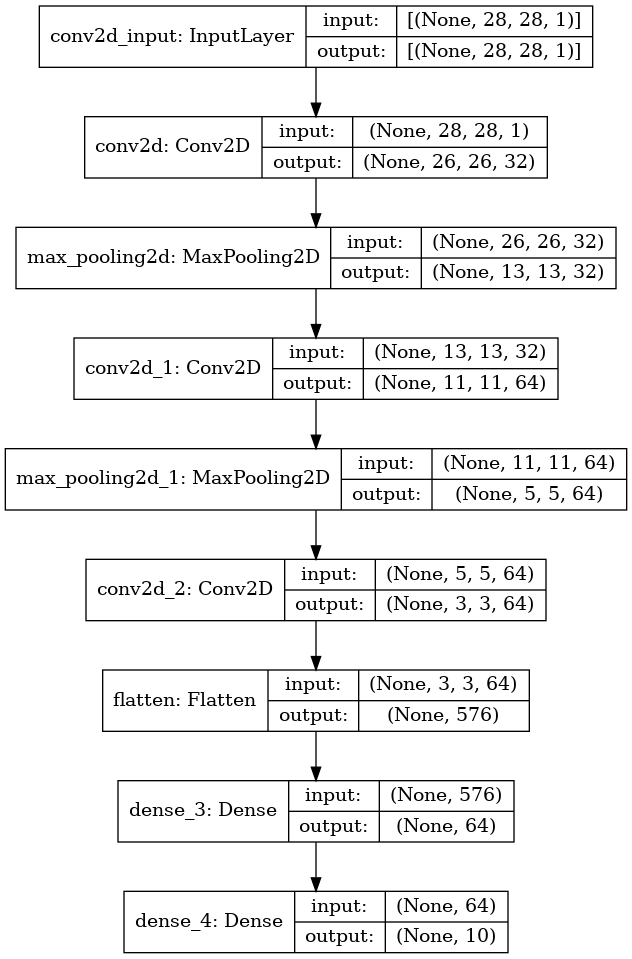
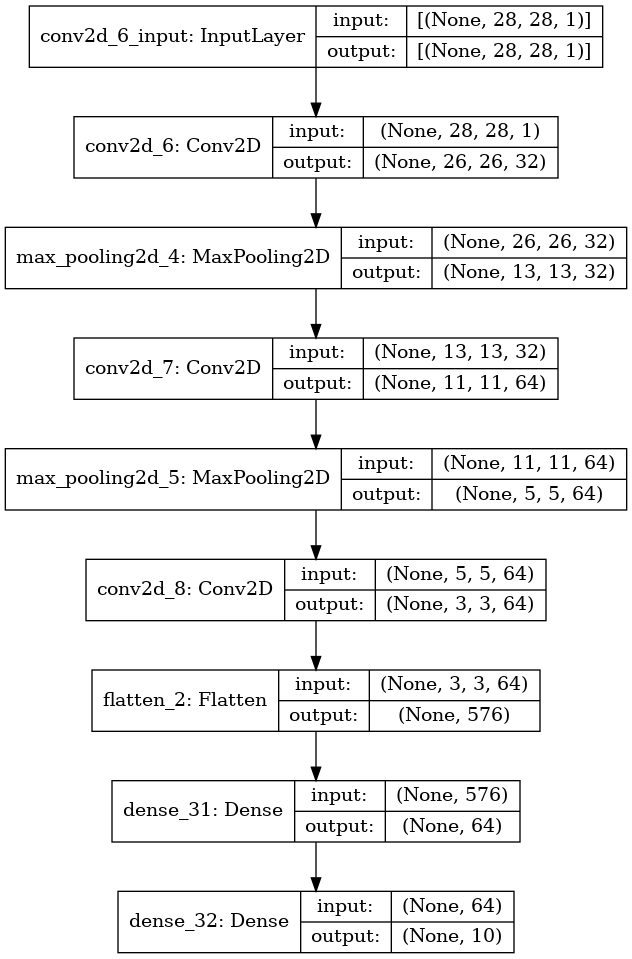
better plots

diff --git a/midterm.py b/midterm.py
@@ -70,17 +70,21 @@ plt.show()
 index_of_value_to_predict=1
 #get predictions on testing data
 y_hat_test=model.predict(x_test_norm)
-#plot the number from the testing set of the given index we want to predict
-plt.imshow(x_test[index_of_value_to_predict],cmap=plt.get_cmap('gray'))
-plt.show()
+
 #prediction given by the model
 prediction_1=np.where(y_hat_test[index_of_value_to_predict,:]==max(y_hat_test[index_of_value_to_predict,:]))[0][0]
-print('\nThe true label of the value in the testing set is ',y_test[index_of_value_to_predict],'\nThe predicted value is ',prediction_1)
+print('\nThe true label of the value in the testing set is ',y_test[index_of_value_to_predict],'\nThe predicted value is ',prediction_1,' with probability: ',max(y_hat_test[index_of_value_to_predict,:]))
+
 #View network predictions (probabilities of class membership)
-plt.bar(range(0,10),list(y_hat_test[index_of_value_to_predict,:]))
-plt.title('Probabilities of class membership')
-plt.ylabel('probability')
-plt.xlabel('number')
+#plot the number from the testing set of the given index we want to predict
+fig,axs=plt.subplots(1,2,figsize=(10,5))
+axs[0].imshow(x_test[index_of_value_to_predict],cmap=plt.get_cmap('gray'))
+axs[0].set_title('True value')
+axs[1].bar(range(0,10),list(y_hat_test[index_of_value_to_predict,:]),label='The NN predicts '+str(2)+' with probability '+str(max(y_hat_test[index_of_value_to_predict,:])))
+axs[1].legend(bbox_to_anchor=(1,-0.12))
+axs[1].set_title('Probabilities of class membership')
+axs[1].set_ylabel('probability')
+axs[1].set_xlabel('number')
 plt.show()
 
 #evaluate on mnist dataset
@@ -253,43 +257,36 @@ plt.show()
 #We can see it's a t-shirt
 
 
+#x_fashion_train=x_fashion_train.reshape(60000,784).astype("float32")/255
+#x_fashion_train=x_fashion_test.reshape(10000,784).astype("float32")/255
+
+x_fashion_train=np.expand_dims(x_fashion_train/255,axis=-1)
+x_fashion_test=np.expand_dims(x_fashion_test/255,axis=-1)
+
+model_fashion=keras.Sequential()
+model_fashion.add(layers.Conv2D(32, (3, 3), activation='relu', input_shape=(28, 28, 1)))
+model_fashion.add(layers.MaxPooling2D((2, 2)))
+model_fashion.add(layers.Conv2D(64, (3, 3), activation='relu'))
+model_fashion.add(layers.MaxPooling2D((2, 2)))
+model_fashion.add(layers.Conv2D(64, (3, 3), activation='relu'))
+model_fashion.add(layers.Flatten())
+model_fashion.add(layers.Dense(64, activation='relu'))
+model_fashion.add(layers.Dense(10,activation='softmax'))
+model_fashion.compile(optimizer='adam',
+              loss=tf.keras.losses.SparseCategoricalCrossentropy(from_logits=True),
+              metrics=['accuracy'])
 
 
-x_fashion_train=x_fashion_train.reshape(30000,784).astype("float32")/255
-x_fashion_test=x_fashion_test.reshape(30000,784).astype("float32")/255
-
-#create the input node
-inputs=keras.Input(shape=(784,))
-#Feed forward neural network with 2 hidden layers
-#first hidden layer
-#activation using the rectified linear function
-hidden1=layers.Dense(56,activation='relu')(inputs)
-#second hidden layer
-#activation using the rectified linear function
-hidden2=layers.Dense(56,activation='relu')(hidden1)
-#output
-outputs=layers.Dense(2,activation='softmax')(hidden2)
-#define the model
-model_fashion=keras.Model(inputs=inputs,outputs=outputs,name='digit_recognition')
+#illustrate with diagram using function in keras 
+keras.utils.plot_model(model_fashion,show_shapes=True)
 #summary
 model_fashion.summary()
-#illustrate with diagram using function in keras 
-keras.utils.plot_model(model_fashion,show_shapes=True)
-#summary
-model_digit.summary()
-#illustrate with diagram using function in keras 
-keras.utils.plot_model(model_fashion,show_shapes=True)
 
-
-model_fashion.compile(
-    loss=keras.losses.SparseCategoricalCrossentropy(),
-    optimizer='sgd',
-    metrics=["accuracy"])
 
 #set the epoch number
 epoch_number=5
 #train the neural network on the mnist dataset (training set only)
-model_fashion=model_fashion.fit(x_fashion_train,y_fashion_train,batch_size=56,epochs=epoch_number,validation_split=0.2)
+history_fashion=model_fashion.fit(x_fashion_train,y_fashion_train,batch_size=56,epochs=epoch_number,validation_split=0.2)
 
 
 #generated images
